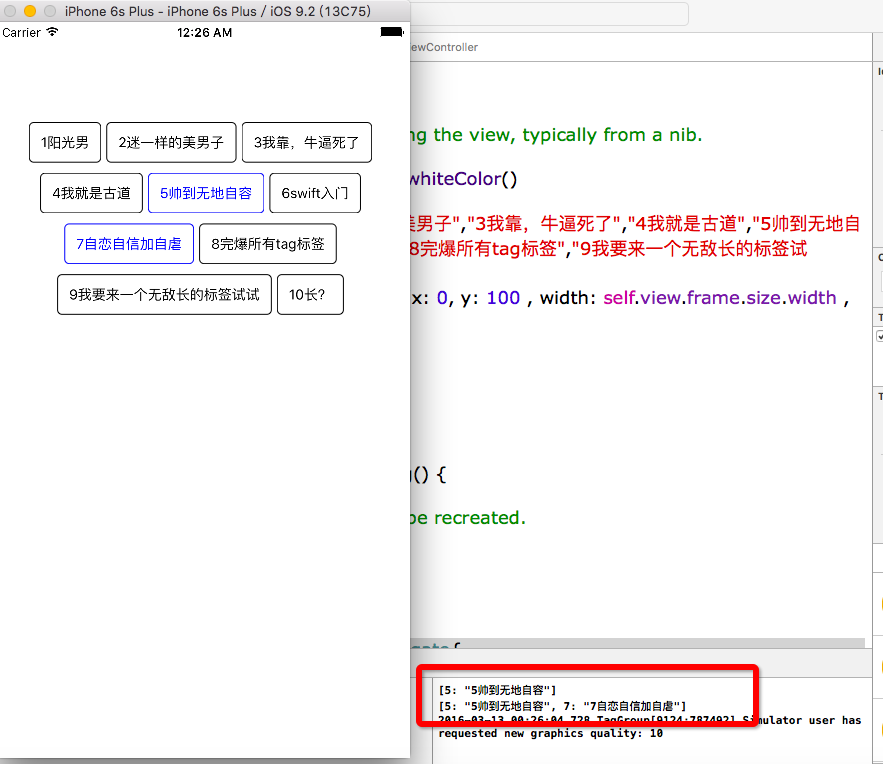
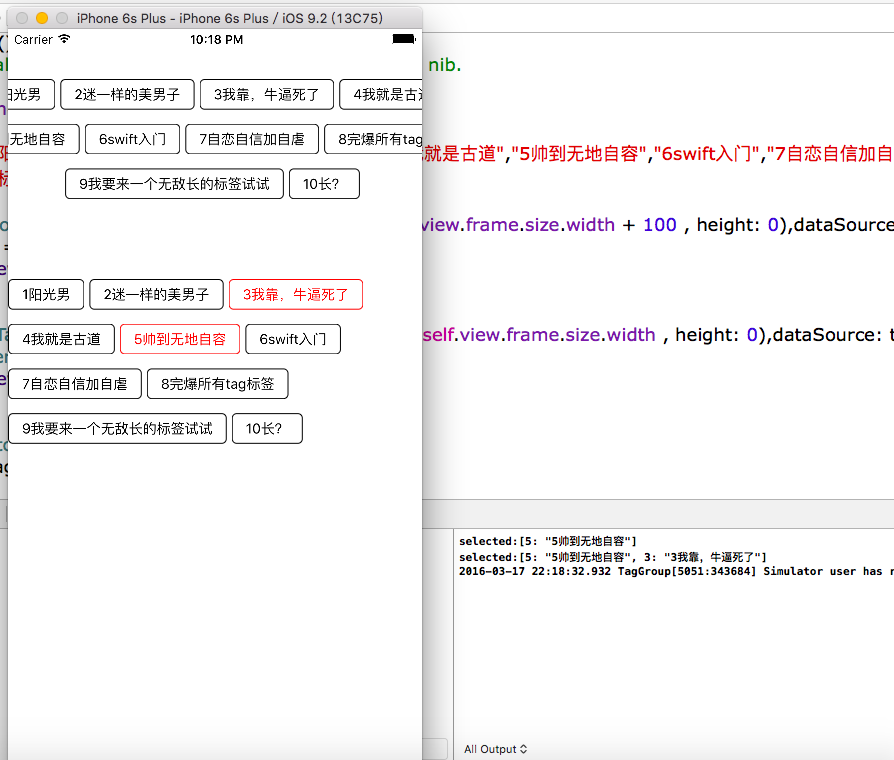
修改说明和效果图

diff --git a/TagGroup/ViewController.swift b/TagGroup/ViewController.swift
@@ -17,13 +17,15 @@ class ViewController: UIViewController {
         self.view.backgroundColor = UIColor.whiteColor()
         
         let tagString = ["1阳光男","2迷一样的美男子","3我靠，牛逼死了","4我就是古道","5帅到无地自容","6swift入门","7自恋自信加自虐","8完爆所有tag标签","9我要来一个无敌长的标签试试","10长？"]
-        let tag = UIButtonTagGroup(frame: CGRect(x: 0, y: 100 , width: self.view.frame.size.width , height: 0),dataSource: tagString)
-        tag.tagAlignment = .Center
-        tag.SelectedHandler = click1
-        self.view.addSubview(tag)
         
+        let tag1 = UITagGroup(frame: CGRect(x: -50, y: 50 , width: self.view.frame.size.width + 100 , height: 0),dataSource: tagString)
+        tag1.tagAlignment = .Center
+        self.view.addSubview(tag1)
 
         
+        let tag = UIButtonTagGroup(frame: CGRect(x: 0, y: 250 , width: self.view.frame.size.width , height: 0),dataSource: tagString)
+        tag.SelectedHandler = click1
+        self.view.addSubview(tag)
     }
     
     func click1(tag:UIButtonTagGroup) {
